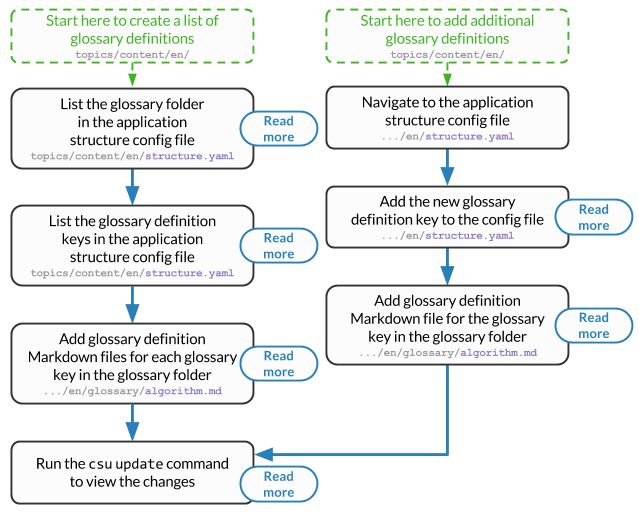
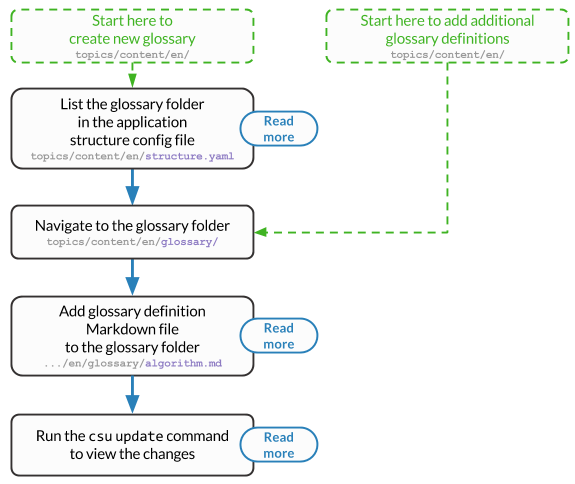
Update documentation

Changed region(s): [[0.0, 0.0, 1.0, 0.9917], [0.9757, 0.031, 1.0, 0.124], [0.887, 0.186, 0.9165, 0.2789]]

diff --git a/docs/source/_static/html_snippets/topics_content_directory_tree_only_yaml.html b/docs/source/_static/html_snippets/topics_content_directory_tree_only_yaml.html
@@ -14,6 +14,7 @@
 	│&nbsp;&nbsp;&nbsp;│&nbsp;&nbsp;&nbsp;└── <span class="file">curriculum-integrations.yaml</span><br>
 	│&nbsp;&nbsp;&nbsp;└── <span class="directory">unit-plan</span><br>
 	│&nbsp;&nbsp;&nbsp;&nbsp;&nbsp;&nbsp;&nbsp;└── <span class="file">unit-plan.yaml</span><br>
+	├── <span class="directory">glossary</span><br>
 	├── <span class="file">learning-outcomes.yaml</span><br>
 	├── <span class="file">programming-exercises-structure.yaml</span><br>
 	└── <span class="file">structure.yaml</span><br>

diff --git a/docs/source/author/topics.rst b/docs/source/author/topics.rst
@@ -284,25 +284,34 @@ Adding Glossary Definitions
 .. raw:: html
 
   <map name="glossary-definitions-map">
-    <area shape="rect" coords="240,110,317,136" href="#application-structure-configuration-file">
-    <area shape="rect" coords="240,227,317,262" href="#application-structure-configuration-file">
-    <area shape="rect" coords="553,200,634,234" href="#application-structure-configuration-file">
-    <area shape="rect" coords="237,347,317,381" href="#glossary-definitions-markdown-file">
-    <area shape="rect" coords="553,308,633,343" href="#glossary-definitions-markdown-file">
-    <area shape="rect" coords="239,467,319,500" href="../getting_started/helper_commands.html#update">
+    <area shape="rect" coords="240,110,317,145" href="#application-structure-configuration-file">
+    <area shape="rect" coords="240,320,320,350" href="#glossary-definitions-markdown-file">
+    <area shape="rect" coords="240,430,319,462" href="../getting_started/helper_commands.html#update">
   </map>
   <img src="../_static/img/topics_adding_glossary_definitions_flowchart.png" usemap="#glossary-definitions-map">
 
 .. _glossary-definitions-markdown-file:
 
-Each glossary definition key requires a Markdown file within the glossary
-folder, with the same name as the key.
-For example, if the key ``pixel`` is listed, then a file ``pixel.md`` is
+Each glossary definition requires a Markdown file within the glossary
+folder, with the filename as the glossary key.
+When linking text to a glossary definition, the key is used as the identifier.
+For example, with the key ``pixel``, then a file ``pixel.md`` is
 expected.
 
 Each Markdown file should start with a heading containing the glossary term
 (this should be capitalized and include any required punctuation), followed
 by the term's definition.
+
+Continuing the ``pixel.md`` example from above, this could be the possible
+contents of that file.
+
+.. code-block:: none
+
+    # Pixel
+
+    This term is an abbreviation of picture element, the name given to the
+    tiny squares that make up a grid that is used to represent images on a
+    computer.
 
 Configuration Files
 ==============================================================================
@@ -365,7 +374,6 @@ Application Structure Configuration File
       configuration file.
     - ``glossary-folder:`` The folder name that contains the Markdown files for
       glossary definitions.
-    - ``glossary-terms:`` A list of keys of defined glossary terms.
 
 A complete application structure file may look like the following:
 
@@ -380,9 +388,6 @@ A complete application structure file may look like the following:
   programming-exercises-structure: programming-exercises-structure.yaml
 
   glossary-folder: glossary
-  glossary-terms:
-    - algorithm
-    - pixel
 
 .. _topic-file:
 
